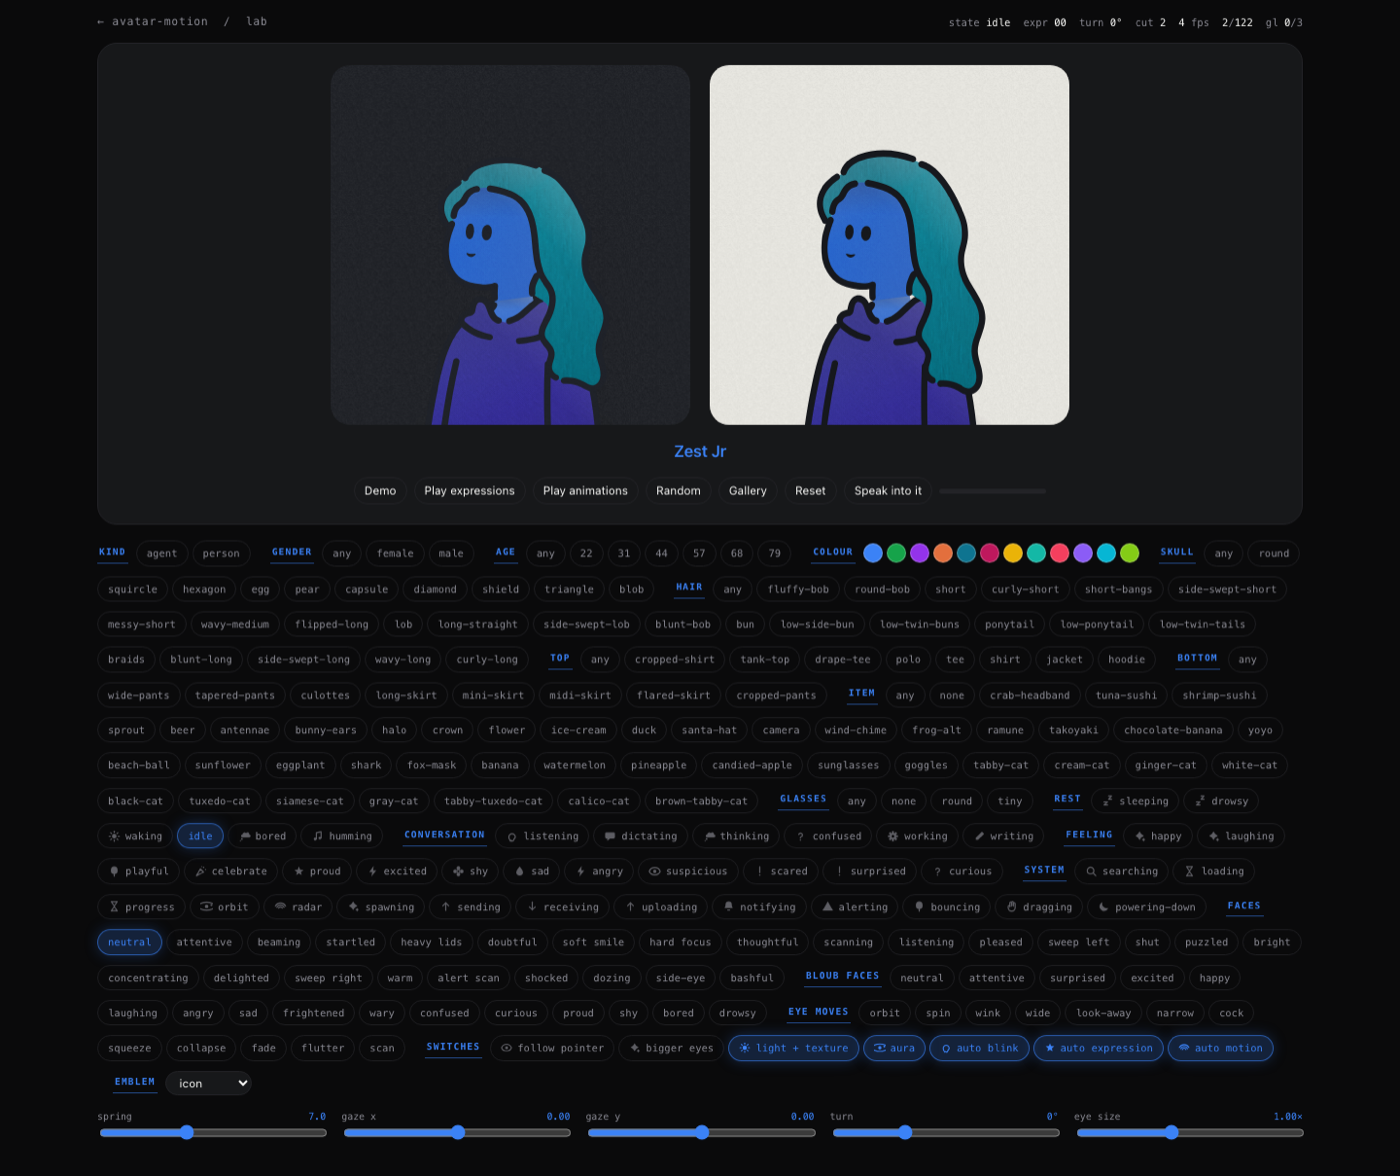
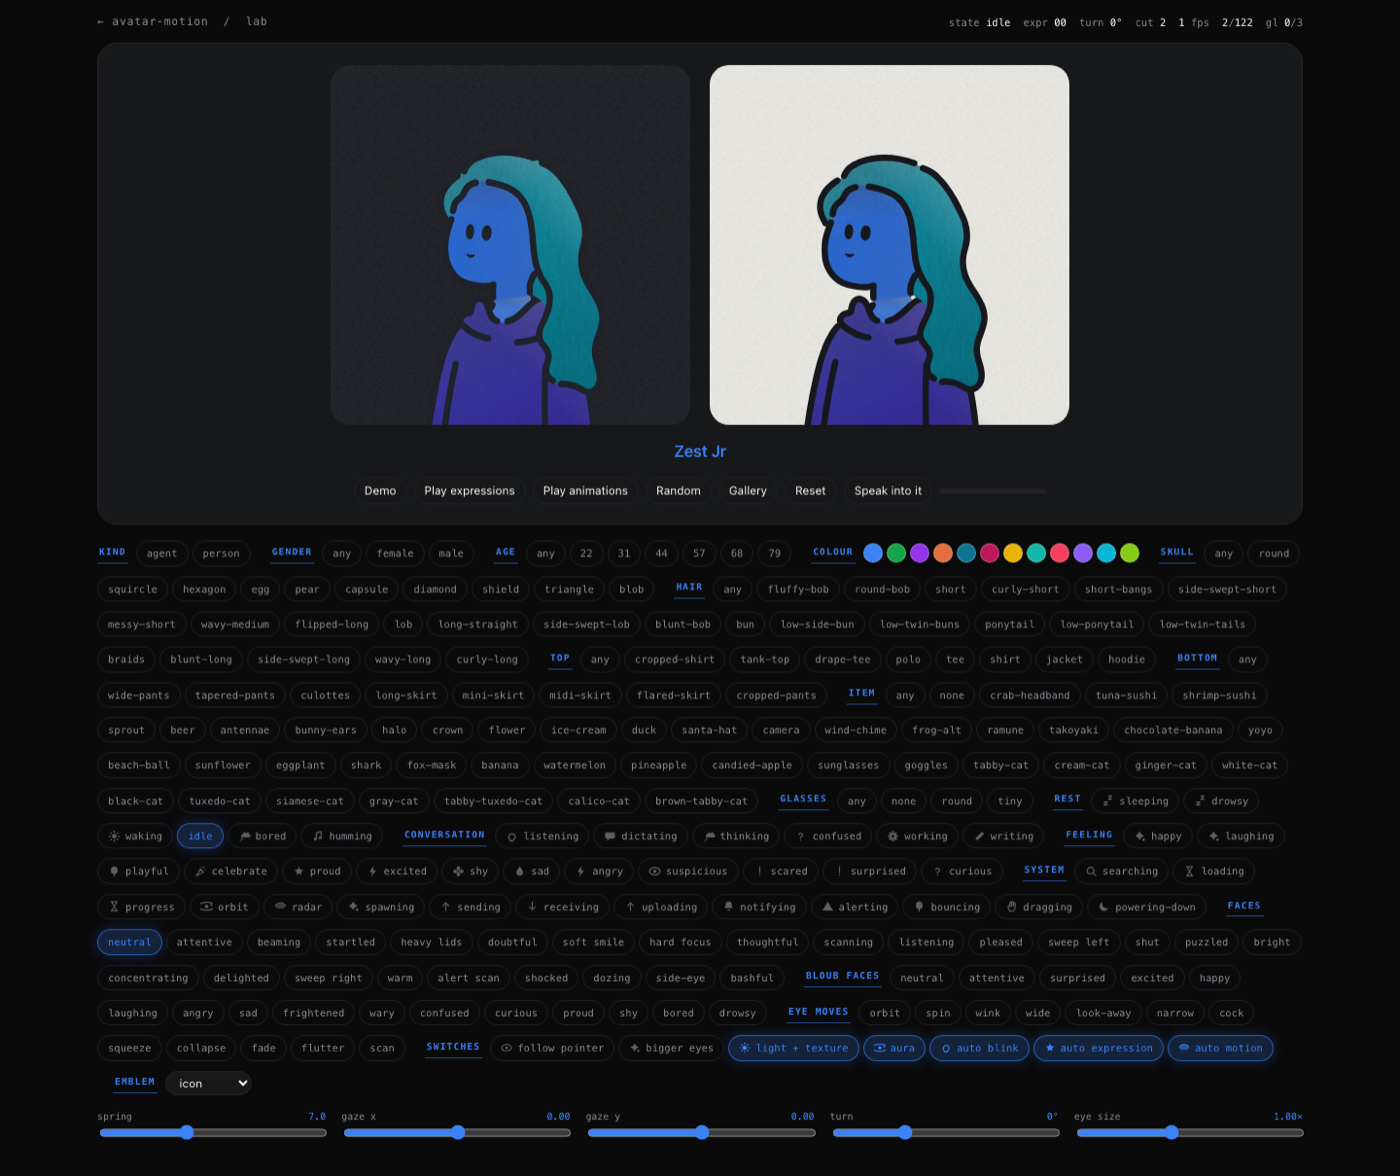
One Gallery section in place of States and Tool calls
The two removed sections each spent an image proving a claim the properties
table already makes. The gallery proves the one thing a table cannot: that
nobody picked these faces.

- docs/gallery.png: fifty personas, ten columns, nothing else in frame
- tools/shots/gallery.html builds them with the SAME randomVariation the
  lab's gallery calls, so the picture cannot drift into a prettier lie
  than the product. Only the column count differs — the lab fits as many
  as the window allows, a README wants a fixed ten
- docs/states.png, docs/tool-call.png and their two shot pages are gone
- the `state` row said "39 of them, below" and below no longer existed;
  it now points at `avatar options`

diff --git a/tools/shots/gallery.html b/tools/shots/gallery.html
@@ -1,0 +1,38 @@
+<!doctype html>
+<html lang="en"><head><meta charset="utf-8"><title>gallery</title>
+<!--
+  The gallery, on its own, for the README.
+
+  It builds its faces with the SAME `randomVariation` the lab's gallery uses,
+  so this cannot drift into a prettier lie about what the gallery holds. The
+  only difference is the column count: the lab fits as many as the window
+  allows, and a README wants a fixed ten.
+-->
+<style>
+  :root { color-scheme: dark }
+  body { margin:0; background:#0a0a0b; padding:26px; }
+  /* Ten columns, and the tile takes whatever width that leaves. */
+  .gallery { display:grid; grid-template-columns:repeat(10,1fr); gap:6px; }
+  .box { width:100%; aspect-ratio:1; border-radius:12px; overflow:hidden;
+         border:1px solid #232327; background:#14161b; }
+  avatar-motion { width:100%; height:100%; display:block }
+</style></head><body>
+<div class="gallery" id="g"></div>
+<script type="module">
+import '/src/avatar-motion.js'
+import { randomVariation, applyVariation } from '/src/variation.js'
+
+const ROWS = 5
+const g = document.getElementById('g')
+for (let i = 0; i < 10 * ROWS; i++) {
+  const box = document.createElement('div')
+  box.className = 'box'
+  const el = document.createElement('avatar-motion')
+  applyVariation(el, randomVariation({}, { pinParts: true }))
+  el.setAttribute('emblem', 'icon')
+  // The WebGL pool is three deep for the whole page; a crowd must never claim one.
+  el.setAttribute('no-aura', '')
+  box.appendChild(el)
+  g.appendChild(box)
+}
+</script></body></html>

diff --git a/README.md b/README.md
@@ -46,7 +46,7 @@ HTML, React, Vue or Svelte.
 | `color` | any hex | An agent's signature colour. It becomes the skin. |
 | `gender` | `male` · `female` | Constrains hair and lower body. Omit for either. |
 | `age` | a number | Greying, reading glasses, a slower pace. |
-| `state` | 39 of them, below | What the face is doing. |
+| `state` | 39 of them | What the face is doing — eyes, brow, mouth, posture and the symbol over the head, together. `avatar options` prints the list. |
 | `skull` | `round` `squircle` `hexagon` `egg` `pear` `capsule` `diamond` `shield` `triangle` `blob` | The generated head shape. Agents only. |
 | `head` | 24 names | Force a hairstyle instead of letting the seed pick. |
 | `body` | 8 names | Force a top. |
@@ -72,20 +72,12 @@ el.send({ type: 'speech.attach', stream })   // the mouth follows real audio
 el.blink(); el.spin(); el.remount(); el.playAct('scan')
 ```
 
-## States
+## Gallery
 
-39 of them. One attribute changes the eyes, brow, mouth, posture and the symbol
-over the head, together.
+Every face here was made by the same generator the library ships. None of them
+were picked, drawn or arranged — the seed did all of it.
 
-![Twenty-four of the thirty-nine states, each labelled](docs/states.png)
-
-## Tool calls
-
-When an agent calls a tool the face performs it: glasses on, a bubble with the
-call in it, the outfit running hot, and the eyes doing the lookup. A search gets
-laser eyes.
-
-![Three agents mid tool call, each with the call name in a bubble](docs/tool-call.png)
+![Fifty avatars in a ten-by-five grid, every one a different person](docs/gallery.png)
 
 ## The lab
 
